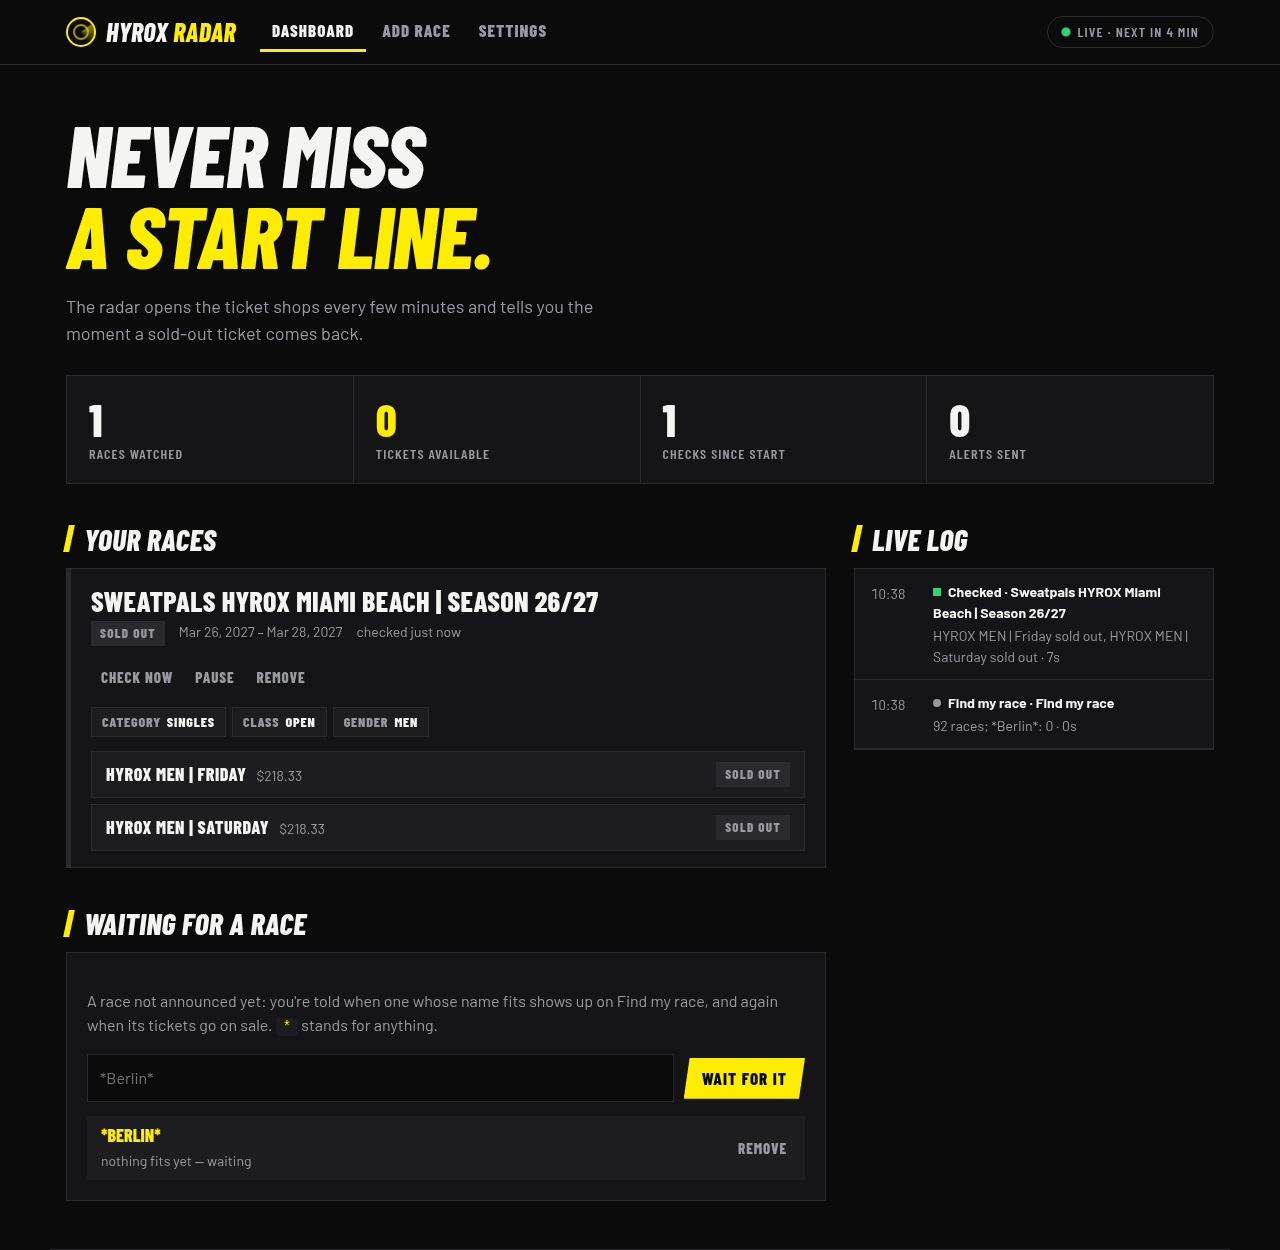
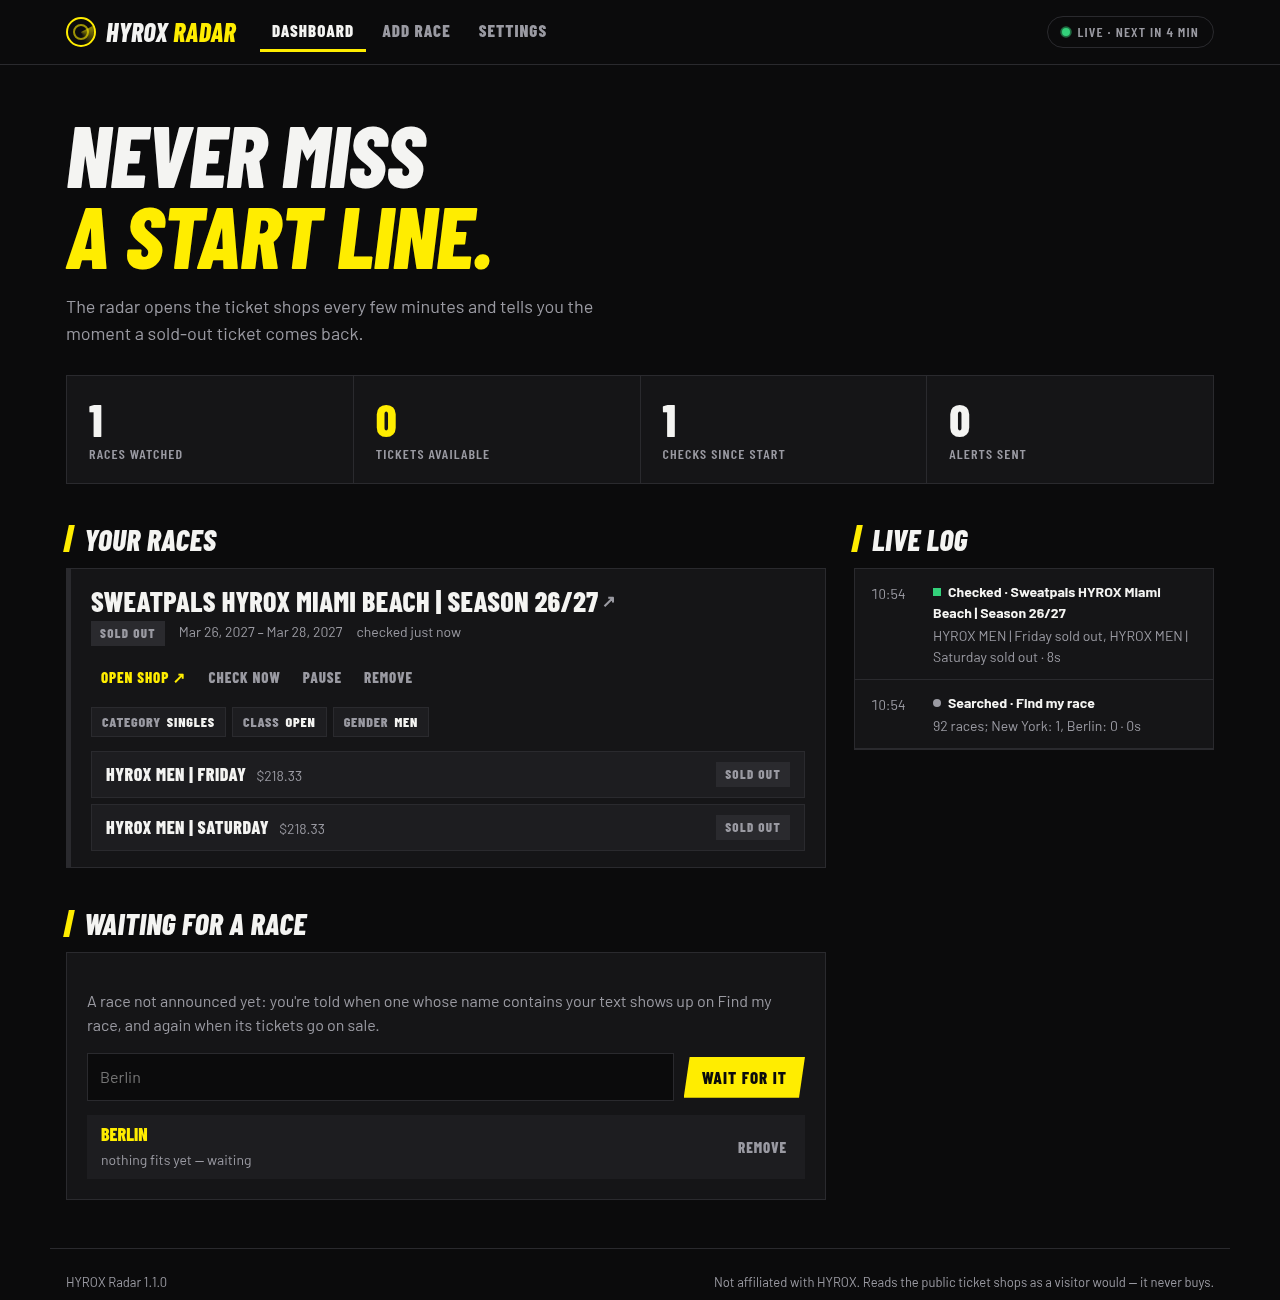
HYROX Radar 1.1.0: shop links, plain-text race search
Every race links to its ticket shop, sold out or not, and alerts and
Buy now open the shop's tickets page, a click shorter. Waiting for a
race takes plain text: Berlin finds every race whose name contains it.

Claude-Session: https://claude.ai/code/session_01FXXeyGX9nkbXjdAycGNCsJ

diff --git a/web/app.js b/web/app.js
@@ -115,11 +115,18 @@ function renderWatches() {
     const open = wanted.some((t) => t.available);
     const status = w.paused ? tag('Paused') : w.error ? tag('Check failing', 'bad') : open ? tag('Available', 'ok') : never(w.checked) ? tag('First check…', 'wait') : tag('Sold out');
     const running = state.running?.subject === w.event;
+    const shop = w.ticketsUrl || w.url;
+    const title = el('a', 'race-link', w.event || 'Race');
+    title.href = shop;
+    title.target = '_blank';
+    title.rel = 'noopener';
+    title.title = 'Open the ticket shop';
     const top = el('div', 'race-top',
       el('div', '',
-        el('h3', '', w.event || 'Race'),
+        el('h3', '', title),
         el('div', 'meta', status, w.dates && el('span', '', w.dates), el('span', '', running ? 'checking now…' : `checked ${ago(w.checked)}`))),
       el('div', 'race-actions',
+        shopLink(shop),
         button('Check now', 'text', async (b) => {
           b.textContent = 'Checking…';
           b.disabled = true;
@@ -141,10 +148,18 @@ function renderWatches() {
     const list = el('ul', 'tickets', ...shown.map((t) =>
       el('li', `ticket ${t.available ? 'available' : ''}`,
         el('span', '', el('span', 'name', t.name), t.price && el('span', 'price', t.price)),
-        t.available ? buyLink(w.url) : tag(t.unseen ? 'Not listed' : 'Sold out'))));
+        t.available ? buyLink(shop) : tag(t.unseen ? 'Not listed' : 'Sold out'))));
     const classes = ['race', open && 'open', w.error && 'failing', w.paused && 'paused'].filter(Boolean).join(' ');
     return el('article', classes, top, chips, list, w.error && el('p', 'error', w.error));
   }));
+}
+
+function shopLink(href) {
+  const a = el('a', 'shop', 'Open shop ↗');
+  a.href = href;
+  a.target = '_blank';
+  a.rel = 'noopener';
+  return a;
 }
 
 function buyLink(href) {
@@ -315,7 +330,7 @@ $('save-watch').addEventListener('click', async () => {
   const wanted = [...$('w-list').querySelectorAll('input:checked')].map((b) => b.value);
   try {
     await api('POST', '/api/watches', {
-      event: page.title, dates: page.dates, url: wizard.url, path: wizard.path,
+      event: page.title, dates: page.dates, url: wizard.url, ticketsUrl: page.ticketsUrl, path: wizard.path,
       steps: page.steps, wanted, tickets: page.tickets,
     });
   } catch (err) {

diff --git a/web/index.html b/web/index.html
@@ -53,9 +53,9 @@
 
           <h2 class="head">Waiting for a race</h2>
           <div class="panel">
-            <p class="muted">A race not announced yet: you're told when one whose name fits shows up on Find my race, and again when its tickets go on sale. <code>*</code> stands for anything.</p>
+            <p class="muted">A race not announced yet: you're told when one whose name contains your text shows up on Find my race, and again when its tickets go on sale.</p>
             <form id="search-form" class="row">
-              <input id="pattern" placeholder="*Berlin*" autocomplete="off" aria-label="Race name to wait for">
+              <input id="pattern" placeholder="Berlin" autocomplete="off" aria-label="Race name to wait for">
               <button type="submit" class="btn">Wait for it</button>
             </form>
             <ul id="searches" class="lines"></ul>

diff --git a/web/style.css b/web/style.css
@@ -247,3 +247,12 @@ footer { max-width: 1180px; margin: 0 auto; padding: 24px 16px 40px; border-top:
   .steps-guide { grid-template-columns: 1fr; }
   .stat .num { font-size: 38px; }
 }
+
+.race-link { text-decoration: none; }
+.race-link:hover { color: var(--yellow); }
+.race-link::after { content: " ↗"; font-size: 0.6em; color: var(--muted); vertical-align: 0.3em; }
+a.shop {
+  font: 800 15px/1 var(--display); text-transform: uppercase; letter-spacing: 0.06em;
+  color: var(--yellow); text-decoration: none; padding: 8px 10px; align-self: center;
+}
+a.shop:hover { text-decoration: underline; }

diff --git a/radar_test.go b/radar_test.go
@@ -24,7 +24,7 @@ type fakeEvents []Event
 func (f fakeEvents) List(context.Context) ([]Event, error) { return f, nil }
 
 func tickets(friday, saturday bool) *Page {
-	return &Page{Title: "Sweatpals HYROX Miami Beach", Tickets: []Ticket{
+	return &Page{Title: "Sweatpals HYROX Miami Beach", TicketsURL: "https://shop/tickets/1", Tickets: []Ticket{
 		{Name: "HYROX MEN | Friday", Available: friday, Price: "$218.33"},
 		{Name: "HYROX MEN | Saturday", Available: saturday, Price: "$218.33"},
 		{Name: "CHARITY: RACE FOR IMPACT | HYROX MEN | Friday", Available: true, Price: "$173.60"},
@@ -60,8 +60,8 @@ func TestTellsOnceWhenAWantedTicketComesBack(t *testing.T) {
 	if len(*sent) != 1 || !strings.Contains((*sent)[0].Text, "HYROX MEN | Friday $218.33") || strings.Contains((*sent)[0].Text, "Saturday") {
 		t.Fatalf("want one alert for Friday only, got %+v", *sent)
 	}
-	if (*sent)[0].Priority != 1 || (*sent)[0].URL != "https://shop/event/x" {
-		t.Errorf("alert should be high priority with the shop's link: %+v", (*sent)[0])
+	if (*sent)[0].Priority != 1 || (*sent)[0].URL != "https://shop/tickets/1" {
+		t.Errorf("alert should be high priority with the shop's tickets page: %+v", (*sent)[0])
 	}
 	r.Check(ctx, id)
 	if len(*sent) != 1 {
@@ -101,7 +101,7 @@ func TestTellsOfABrokenCheckOnceAndOfItsRecovery(t *testing.T) {
 
 func TestSearchTakesNoteFirstThenTellsOfNewRacesAndSales(t *testing.T) {
 	berlin26 := Event{Name: "HYROX Berlin", URL: "https://hyrox.com/event/berlin-26/", Dates: "1. May. 2026", OnSale: true}
-	s := &Search{Pattern: "*Berlin*"}
+	s := &Search{Pattern: "Berlin"}
 	if got := searched(s, []Event{berlin26}, time.Now()); len(got) != 0 {
 		t.Fatalf("what is there when added is not news: %+v", got)
 	}
@@ -123,8 +123,8 @@ func TestSearchTakesNoteFirstThenTellsOfNewRacesAndSales(t *testing.T) {
 func TestMatches(t *testing.T) {
 	berlin := Event{Name: "AIA HYROX Berlin", City: "BER"}
 	for pattern, want := range map[string]bool{
-		"*Berlin*": true, "berlin": true, "*berlin": true, "Berlin*": false, "ber": true, "BER": true,
-		"*Hamburg*": false, "": false, "AIA*": true,
+		"Berlin": true, "berlin": true, "*Berlin*": true, "Berlin*": true, "ber": true, "AIA HYROX": true,
+		"Hamburg": false, "": false, "*": false,
 	} {
 		if Matches(pattern, berlin) != want {
 			t.Errorf("Matches(%q) = %v, want %v", pattern, !want, want)

diff --git a/store.go b/store.go
@@ -40,15 +40,17 @@ type Settings struct {
 // Watch is one event's tickets being watched: the shop, the choices that lead to the tickets,
 // and which of them are wanted (none: any of them). It also keeps what was seen last.
 type Watch struct {
-	ID      string    `json:"id"`
-	Event   string    `json:"event"`
-	Dates   string    `json:"dates"`
-	URL     string    `json:"url"`
-	Path    []string  `json:"path"`
-	Steps   []Step    `json:"steps"`
-	Wanted  []string  `json:"wanted"`
-	Paused  bool      `json:"paused"`
-	Created time.Time `json:"created"`
+	ID    string `json:"id"`
+	Event string `json:"event"`
+	Dates string `json:"dates"`
+	URL   string `json:"url"`
+	// The shop's tickets page, opening at the first choice; where links and alerts go.
+	TicketsURL string    `json:"ticketsUrl,omitempty"`
+	Path       []string  `json:"path"`
+	Steps      []Step    `json:"steps"`
+	Wanted     []string  `json:"wanted"`
+	Paused     bool      `json:"paused"`
+	Created    time.Time `json:"created"`
 
 	Checked  time.Time `json:"checked,omitzero"`
 	Tickets  []Ticket  `json:"tickets"`
@@ -58,12 +60,20 @@ type Watch struct {
 	Seen map[string]time.Time `json:"seen,omitempty"`
 }
 
+// Shop is the quickest way into the shop: its tickets page, else the event's.
+func (w *Watch) Shop() string {
+	if w.TicketsURL != "" {
+		return w.TicketsURL
+	}
+	return w.URL
+}
+
 // Wants says whether a ticket is one the watch is for.
 func (w *Watch) Wants(name string) bool {
 	return len(w.Wanted) == 0 || contains(w.Wanted, name)
 }
 
-// Search waits for races on Find my race whose name matches a pattern, "*Berlin*" say: it tells
+// Search waits for races on Find my race whose name contains a text, "Berlin" say: it tells
 // of one that appears, and of one whose tickets go on sale. Known keeps the races seen so far,
 // and whether their tickets were on sale, so that the races there already when it was added are
 // not news.

diff --git a/events.go b/events.go
@@ -87,22 +87,14 @@ func parseDate(s string) time.Time {
 	return time.Time{}
 }
 
-// Matches says whether an event's name or city code fits a pattern: * stands for anything, and
-// without one the pattern may be anywhere in the name. Case does not matter.
-func Matches(pattern string, e Event) bool {
-	pattern = strings.ToLower(strings.TrimSpace(pattern))
-	if pattern == "" {
+// Matches says whether a race's name or city code contains the text looked for, case aside.
+// Asterisks are left out: "*Berlin*" is "Berlin".
+func Matches(text string, e Event) bool {
+	text = strings.ToLower(strings.TrimSpace(strings.ReplaceAll(text, "*", "")))
+	if text == "" {
 		return false
 	}
-	if !strings.Contains(pattern, "*") {
-		pattern = "*" + pattern + "*"
-	}
-	quoted := strings.ReplaceAll(regexp.QuoteMeta(pattern), `\*`, ".*")
-	re, err := regexp.Compile("^" + quoted + "$")
-	if err != nil {
-		return false
-	}
-	return re.MatchString(strings.ToLower(e.Name)) || re.MatchString(strings.ToLower(e.City))
+	return strings.Contains(strings.ToLower(e.Name), text) || strings.Contains(strings.ToLower(e.City), text)
 }
 
 // Events keeps Find my race's list for half an hour: it changes with new events, not by the minute.

diff --git a/shop.go b/shop.go
@@ -31,12 +31,15 @@ type Ticket struct {
 
 // Page is what the shop shows after the given choices: the next step's options, or the tickets.
 type Page struct {
-	URL     string   `json:"url"`
-	Title   string   `json:"title"`
-	Dates   string   `json:"dates"`
-	Steps   []Step   `json:"steps"`
-	Options []string `json:"options"`
-	Tickets []Ticket `json:"tickets"`
+	URL string `json:"url"`
+	// The shop's own page of the event's tickets, which opens at the first choice: a click
+	// shorter than the event's page.
+	TicketsURL string   `json:"ticketsUrl"`
+	Title      string   `json:"title"`
+	Dates      string   `json:"dates"`
+	Steps      []Step   `json:"steps"`
+	Options    []string `json:"options"`
+	Tickets    []Ticket `json:"tickets"`
 }
 
 // Shop opens HYROX ticket shops in headless Chromium, as a visitor would. One page at a time:
@@ -131,6 +134,9 @@ func (s *Shop) Browse(parent context.Context, event string, path []string) (*Pag
 		if err != nil {
 			return nil, fmt.Errorf("nothing came after choosing %q", choice)
 		}
+	}
+	if strings.Contains(page.URL, "/tickets/") {
+		page.TicketsURL = strings.Split(page.URL, "?")[0]
 	}
 	return page, nil
 }

diff --git a/server.go b/server.go
@@ -134,7 +134,7 @@ func (s *Server) addWatch(w http.ResponseWriter, r *http.Request) {
 		return
 	}
 	watch := &Watch{
-		ID: newID(), Event: in.Event, Dates: in.Dates, URL: in.URL, Path: in.Path, Steps: in.Steps,
+		ID: newID(), Event: in.Event, Dates: in.Dates, URL: in.URL, TicketsURL: in.TicketsURL, Path: in.Path, Steps: in.Steps,
 		Wanted: in.Wanted, Tickets: in.Tickets, Created: time.Now(),
 	}
 	if err := s.store.Update(func(d *Data) error { d.Watches = append(d.Watches, watch); return nil }); err != nil {
@@ -201,7 +201,7 @@ func (s *Server) addSearch(w http.ResponseWriter, r *http.Request) {
 	}
 	pattern := strings.TrimSpace(in.Pattern)
 	if strings.Trim(pattern, "* ") == "" {
-		fail(w, http.StatusBadRequest, errors.New("enter a name to look for, *Berlin* say"))
+		fail(w, http.StatusBadRequest, errors.New("enter a name to look for, Berlin say"))
 		return
 	}
 	search := &Search{ID: newID(), Pattern: pattern, Created: time.Now()}

diff --git a/radar.go b/radar.go
@@ -148,7 +148,7 @@ func (r *Radar) apply(w *Watch, page *Page, err error, now time.Time) []Message 
 			return []Message{{
 				Title: "HYROX Radar: check broken",
 				Text:  fmt.Sprintf("%s failed %d times in a row: %s", w.Event, brokenAfter, err),
-				URL:   w.URL, URLTitle: "Open ticket shop",
+				URL:   w.Shop(), URLTitle: "Open ticket shop",
 			}}
 		}
 		return nil
@@ -178,12 +178,15 @@ func (r *Radar) apply(w *Watch, page *Page, err error, now time.Time) []Message 
 	if page.Dates != "" {
 		w.Dates = page.Dates
 	}
+	if page.TicketsURL != "" {
+		w.TicketsURL = page.TicketsURL
+	}
 	log.Printf("%s: %s", w.Event, summary(w))
 	if len(fresh) > 0 {
 		messages = append(messages, Message{
 			Title:    "Tickets available: " + w.Event,
 			Text:     strings.Join(fresh, "\n") + "\nBe quick.",
-			URL:      w.URL,
+			URL:      w.Shop(),
 			URLTitle: "Open ticket shop",
 			Priority: 1,
 		})

diff --git a/main.go b/main.go
@@ -16,7 +16,7 @@ import (
 	"time"
 )
 
-var version = "1.0.0"
+var version = "1.1.0"
 
 func main() {
 	home, _ := os.UserHomeDir()

diff --git a/README.md b/README.md
@@ -1,6 +1,6 @@
 # HYROX Radar
 
-[![Version](https://img.shields.io/badge/version-1.0.0-blue.svg)](CHANGELOG.md)
+[![Version](https://img.shields.io/badge/version-1.1.0-blue.svg)](CHANGELOG.md)
 [![License](https://img.shields.io/badge/license-MIT-green.svg)](LICENSE)
 [![Go](https://img.shields.io/badge/go-1.25+-00ADD8.svg)](https://go.dev)
 
@@ -19,7 +19,7 @@ Raspberry Pi or any Linux box:
 |---|---|
 | 🎯 **Any race, any ticket** | Pick the race from HYROX's *Find my race*, make the same choices as in its shop — Singles › Open › Men — and tick the tickets you want: Friday, Saturday, or any of them. |
 | 🔔 **Told at once** | Pushover (all your devices, or just one) and email. Once per ticket coming back, not every few minutes while it lasts. |
-| 🗓 **Races not announced yet** | Wait for `*Berlin*`: you're told when a race whose name fits shows up, and again when its tickets go on sale. |
+| 🗓 **Races not announced yet** | Wait for `Berlin`: you're told when a race whose name contains it shows up, and again when its tickets go on sale. |
 | 📡 **A dashboard** | What is watched, what is sold out or available, what is being checked right now, when the next round is, and a live log. |
 | 🛟 **Tells you when it breaks** | Three failed checks in a row — the shop changed, the race is gone — and you get told, and again once it works. |
 
@@ -86,9 +86,9 @@ journalctl -u hyrox-radar -f         # what it is doing
    *Start watching*. None ticked means any of them.
 3. **Dashboard** — your races with their tickets. *Check now* looks at once, *Pause* stops
    watching for a while.
-4. **Waiting for a race** — enter a name with `*` for anything: `*Berlin*`, `*Hamburg*`,
-   `*Miami*`. Races there already when you add it are not news; a new one is, and so is its
-   tickets going on sale.
+4. **Waiting for a race** — enter part of its name: `Berlin`, `Hamburg`, `Miami`, any case.
+   Races there already when you add it are not news; a new one is, and so is its tickets going
+   on sale.
 
 <p align="center"><img src="docs/phone.png" alt="The dashboard on a phone" width="300"></p>
 
@@ -100,7 +100,9 @@ journalctl -u hyrox-radar -f         # what it is doing
 > *Open ticket shop*
 
 Pushover alerts are sent with high priority, so they come through quiet hours. Tap the link,
-pick the ticket, pay — returned tickets go fast.
+pick the ticket, pay — returned tickets go fast. The link opens the shop's tickets page, one click
+shorter than the event's. On the dashboard every race links to its shop too, sold out or not, to
+see for yourself.
 
 ## Good to know
 

diff --git a/CHANGELOG.md b/CHANGELOG.md
@@ -1,5 +1,13 @@
 # Changelog
 
+## 1.1.0 — 2026-11-11
+
+- Every race on the dashboard links to its ticket shop, sold out or not: its name and an
+  *Open shop* button. Alerts and *Buy now* open the shop's tickets page, a click shorter than
+  the event's.
+- Waiting for a race takes plain text: `Berlin` finds every race whose name contains it, any
+  case. No `*` needed; one typed anyway is ignored.
+
 ## 1.0.0 — 2026-11-11
 
 - Watches HYROX ticket shops for sold-out tickets coming back, by opening them in headless
